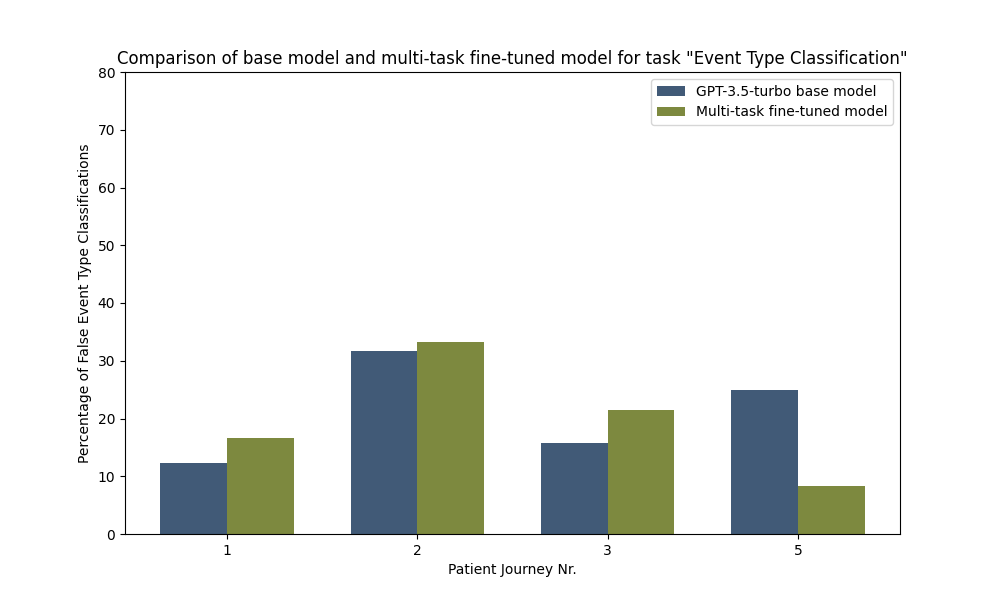
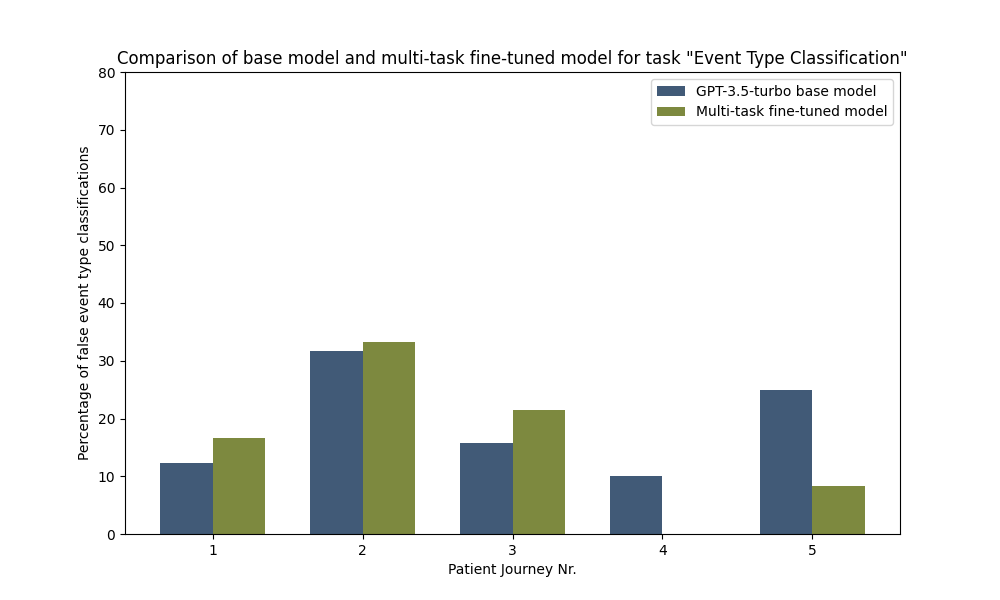
Updates from Overleaf

diff --git a/bachelor_thesis/chapters/preliminaries.tex b/bachelor_thesis/chapters/preliminaries.tex
@@ -3,15 +3,15 @@
 In this chapter, we introduce the terms and concepts used throughout the rest of the thesis. Where applicable, we use terms whose definitions are already established. At some points, we make minor adjustments to reduce complexity.\\\\ 
 The success of the approaches we present later in this thesis is evaluated by evaluating event logs. So this is the first term we introduce.
 \subsubsection*{Event Logs}\label{sec:event-log}
-As the name suggests, event logs are collections of recorded events and their defining data related to an observed process. They can be used as input for process mining and, therefore, must adhere to a particular structure. Usually, they are represented as tables, where each row represents one event, and each column contains the values of the events' attributes. The bare minimum for these attributes is \emph{case ID} and \emph{activity}. Each instance of the process from which the events originate is labelled with an ID, the case ID. All events related to the same case are referred to as a \emph{trace}. An event log can contain one or multiple traces. On top of the mandatory attributes, timestamps, activity categories, and more process-specific attributes can be recorded in an event log.~\cite{van_der_aalst_process_2016}\\\\
+As the name suggests, event logs are collections of recorded events and their defining data related to an observed process. They can be used as input for process mining and, therefore, must adhere to a particular structure. Usually, they are represented as tables, where each row represents one event, and each column contains the values of the events' attributes. The bare minimum for these attributes is \emph{case ID} and \emph{activity}. Each instance of the process from which the events originate is labelled with an ID, the case ID. All events related to the same case are referred to as a \emph{trace}.  An event log can contain one or multiple traces. Activity is a description of the event that occurred. On top of the mandatory attributes, timestamps, activity categories, and more process-specific attributes can be recorded in an event log.~\cite{van_der_aalst_process_2016}\\\\
 In the context of this thesis, we consider events to be atomic, thus making the distinction between events and activities superfluous. Both terms can be used interchangeably. To clarify what an event is, we define the term as follows.
 
 \subsubsection*{Event}\label{sec:event}
-An event consists of a case ID, an activity label, a start timestamp, and optionally other attributes such as the location where the event occurred.~\cite{van_der_aalst_process_2016} The activity label is a short description of the activity that took place. In the context of this thesis, it is not bound to a list of predefined terms or phrases. This means multiple activity labels can be syntactically different but semantically identical. An event is uniquely identifiable by the combination of its attributes. If the activity label of two events is semantically very similar while also sharing the same start timestamp and event type, these two events are indeed the same event.\\\\
+An event consists of a case ID, an activity label, and optionally other attributes such as a start timestamp an end timestamp the location where the event occurred.~\cite{van_der_aalst_process_2016} The activity label is a short description of the activity that took place. In the context of this thesis, it is not bound to a list of predefined terms or phrases. This means multiple activity labels can be syntactically different but semantically identical. An event is uniquely identifiable by the combination of its attributes. If the activity label of two events is semantically very similar while also sharing the same start timestamp, these two events are indeed the same event.\\\\
 The source we want to extract events from is Patient Journeys. Since this term has no widely accepted definition, we clarify below how we use it in this thesis.
 
 \subsubsection*{Patient Journeys}\label{sec:pj}
-Patient journeys are natural language texts without any defined format or structure. However, there are properties, that are typically found in Patient Journeys: They describe a person's course of disease from the patient's perspective, as the patient themself usually writes it. It is agreed that the interaction between the patient and the health services, together with the following activities and interventions, are the critical components of a Patient Journey~\cite{ferrara_engaging_2019, kuo_rosacea_2015}. Characteristically, they encompass events spanning beyond, e.g. a single hospital stay, offering a broader picture by compiling experiences from before the onset of the condition, during hospital visits, at home, during doctor's appointments, and so on. Often, these accounts are enriched with personal feelings, either explicitly stated or implicitly conveyed through the writing style. The lack of structure and guidelines on what content must be included comes with advantages and disadvantages. Unlike doctor letters or automatic reports from Health Information Systems, they are more likely to be honest and approachable representations of how a patient perceives the course of disease.
+Patient Journeys are natural language texts without any defined format or structure. However, there are properties, that are typically found in Patient Journeys: They describe a person's course of disease from the patient's perspective, as the patient themself usually writes it. It is agreed that the interaction between the patient and the health services, together with the following activities and interventions, are the critical components of a Patient Journey~\cite{ferrara_engaging_2019, kuo_rosacea_2015}. Characteristically, they encompass events spanning beyond, e.g. a single hospital stay, offering a broader picture by compiling experiences from before the onset of the condition, during hospital visits, at home, during doctor's appointments, and so on. Often, these accounts are enriched with personal feelings, either explicitly stated or implicitly conveyed through the writing style. The lack of structure and guidelines on what content must be included comes with advantages and disadvantages. Unlike doctor letters or automatic reports from Health Information Systems, they are more likely to be honest and approachable representations of how a patient perceives the course of disease.
 On the other hand, Patient Journeys can have spelling and grammar issues, be of any length, and use mostly non-scientific phrasing. This makes any two Patient Journeys difficult to compare. They are commonly found online, notably on social media platforms such as X, Facebook, and Reddit.\\\\
 The most essential tool in the extraction process we apply to create event logs from Patient Journeys is a GPT model. Therefore, we introduce the model we use in the following.
 
@@ -40,23 +40,19 @@ We use an open-source project as a foundation for our work. We use it as a refer
 
 \subsubsection*{TracEX}\label{sec:tracex}
 TracEX\footnote{https://github.com/FR-SON/TracEX} is an LLM-based data processing pipeline that aims to extract event logs from patient journeys. It takes a patient journey as an input and delivers an event log (in XES format) as an output. The extraction process involves many steps, some of which will be important later on. Hence, they are listed below:
-\paragraph{Preprocessing} Patient Journeys are often unstructured, making it hard to extract information from them. Events are not always described in chronological order, time-related information is often missing or relative to each other (e.g. \quotes{two weeks later}), and language is not standardized (use of synonyms, paraphrases or slang). Extracting data from this reliably is virtually impossible. This is why preprocessing is essential. The patient journey is moulded into a more structured format in order to streamline the following steps while still retaining the continuous text format. This process includes correcting spelling and grammar as well as identifying and transforming time-related phrases into a date format (e.g. YYYY-MM-DD). Additionally, case information like the author's age and the described condition are extracted.
+\paragraph{Preprocessing} Patient Journeys are often unstructured, making it hard to extract information from them. Events are not always described in chronological order, time-related information is often missing or relative to each other (e.g. \quotes{two weeks later}), and language is not standardized (use of synonyms, paraphrases or slang). Extracting data from this reliably is virtually impossible. This is why preprocessing is essential. The Patient Journey is moulded into a more structured format in order to streamline the following steps while still retaining the continuous text format. This process includes correcting spelling and grammar as well as identifying and transforming time-related phrases into a date format (e.g. YYYY-MM-DD). Additionally, case information like the author's age and the described condition are extracted.
+\paragraph{Labelling Activities} All relevant events are determined using the entire Patient Journey as context information and also considering the condition. They are then each summarized into six words at most. This implies that the exact phrasing of an activity label can vary each time the pipeline is executed. An example of a typical activity is \quotes{experiencing fever-like symptoms}.
 \paragraph{Extracting Event Types} Given an activity label, the category of that activity is determined from a predefined list. Possible event types are: Symptom Onset, Symptom Offset, Doctor Visit, Hospital Admission, Hospital Discharge, Treatment, Medication, Lifestyle Change and Feelings.
-\paragraph{Labelling Activities} Unlike event types, activity labels are not chosen from a predefined list of possible activities. All relevant events are determined using the entire patient journey as context information and also considering the condition. They are then each summarized into six words at most. This implies that the exact phrasing of an activity can vary each time the pipeline is executed. An example of a typical activity is \quotes{experiencing fever-like symptoms}.
-\paragraph{Extracting Timestamps} Given an activity, its start and end date are determined. It is extracted if possible and extrapolated if not. Furthermore, the duration of the activity is calculated from the two timestamps.\\\\
+\paragraph{Extracting Timestamps} Given an activity label, its start and end date are determined. It is extracted if possible and extrapolated if not. Furthermore, the duration of the activity is calculated from the two timestamps.\\\\
 To achieve the described outcome, a mix of deterministic scripts and requests to the OpenAI API are used. Among other techniques, prompt engineering is used to increase the quality of the extracted event logs.
 The Few-Shot prompting technique has proven to be especially suited for the described tasks. A request to the OpenAI API might contain a message list like this:
-\begin{lstlisting}[language=json, caption={Few-shot prompt to categorize activities into event types}, label={lst:few-shot}]
-{"messages":[
-	{"role": "system",  
-     "content": "You are an expert in text categorization and your job is to take a given activity label and to classify it into one of the following event types: 'Symptom Onset', 'Symptom Offset', 'Diagnosis', 'Doctor Visit', 'Treatment', 'Hospital Admission', 'Hospital Discharge', 'Medication', 'Lifestyle Change' and 'Feelings'. Please consider the capitalization.",  
-	},  
-    {"role": "user", "content": "visiting doctor's"},  
-    {"role": "assistant", "content": "Doctor Visit"},  
-    {"role": "user", "content": "tested positive for Covid19"},
-    {"role": "assistant", "content": "Diagnosis"},  
-    {"role": "user", "content": activity_label}  
-]}
+\begin{lstlisting}[language=prompt, caption={Few-shot prompt to categorize activities into event types}, label={lst:few-shot}]
+system: You are an expert in text categorization and your job is to take a given activity label and to classify it into one of the following event types: Symptom Onset, Symptom Offset, Diagnosis, Doctor Visit, Treatment, Hospital Admission, Hospital Discharge, Medication, Lifestyle Change and Feelings. Please consider the capitalization.  
+user: visiting doctor's 
+assistant: Doctor Visit  
+user: tested positive for Covid19
+assistant: Diagnosis
+user: activity_label  
 \end{lstlisting}
 A prompt containing the task for the model and a list of examples to specify the models' behaviour is given, along with the activity label to be classified.
-Please note that TracEX is an open-source tool. It may still be in development, and functionality might be altered, removed or added in the future. The development status this thesis builds upon can be checked 
+Please note that TracEX is an open-source tool. It may still be in development, and functionality might be altered, removed or added in the future. The development status this thesis builds upon can be checked \href{https://github.com/FR-SON/TracEX}{here}.

diff --git a/bachelor_thesis/chapters/evaluation.tex b/bachelor_thesis/chapters/evaluation.tex
@@ -18,7 +18,7 @@ We use a set of event types, so each pair is mutually exclusive. This means that
 The value we use from this metric is the percentage of \verb|True| and \verb|False| values respectively. This way, the number of errors is relative to the number of activities in each patient journey.\\
 Possible event types are: Symptom Onset, Symptom Offset, Doctor Visit, Hospital Admission, Hospital Discharge, Treatment, Medication, Lifestyle Change and Feelings.
 
-\subsubsection{Timestamp Extraction Metrics}\label{sec:time_metrics}
+\subsubsection{Timestamp Extraction Metric}\label{sec:time_metrics}
 Similar to the event type metric, a timestamp can be either extracted correctly or incorrectly, resulting in \verb|True| or \verb|False| when evaluated. In order to adhere to the commonly used standard in event logs, which is also required to produce valid XES files, the timestamps are in the format \verb|YYYY-MM-DD|. In many cases, including the sample patient journeys we use in the evaluation, patient journeys do not contain time information this precise. Most of the time, specifications are relative and vague. For this evaluation, we define a timestamp to be extracted correctly if the date is plausible in the context of the Patient Journey. For an activity described to have happened on \quotes{some day in April…}, any timestamp between 01.~April and 30.~April would be correct. This is unless other time-related information further specifies the timeframe in which an activity must have happened. Let $A_1$ be an activity that happens before activity $A_2$ and $t_2=$ \verb|2024-04-15q| be the timestamp for $A_2$. If $A_1$ is specified as \quotes{some day in April…}, only timestamps between 01.~April and 14.~April would be correct. The same goes for \quotes{as the weeks progressed}, \quotes{later that year} and similar phrases. As long as an extracted timestamp is correct relative to all other information given in the patient journey and is as precise as the text provides, it is deemed correct.\\
 Start and end timestamps can be correct or incorrect, independent of each other. The value we use from this metric is the percentage of \verb|True| and \verb|False| values respectively. This way, the number of errors is relative to the number of activities in each patient journey.
 
@@ -49,8 +49,9 @@ We will first showcase the multi-task fine-tuned model and, secondly, the single
 We will present the results for every task performed by the model in the following order: First, we showcase the performance in labelling activities, followed by classifying event types of activities, and lastly, extracting timestamps for activities.
 
 \paragraph{Activity Labelling} The plots in \autoref{fig:eval_activities_rad} show comparisons of the base model and multi-task fine-tuned model in all three metrics for each Patient Journey individually. The axes each display the error rate in the extraction results the models achieved. A smaller amplitude is desirable.\\
-\begin{figure}
+\begin{figure}[h]
   \centering
+  \captionsetup{belowskip=0pt,aboveskip=0pt}
   \subfigure[Patient Journey Nr. 1]{\includegraphics[width=0.3\textwidth]{bachelor_thesis/images/activites_pj1.png}}
   \subfigure[Patient Journey Nr. 2]{\includegraphics[width=0.3\textwidth]{bachelor_thesis/images/activites_pj2.png}}
   \subfigure[Patient Journey Nr. 3]{\includegraphics[width=0.3\textwidth]{bachelor_thesis/images/activites_pj3.png}}
@@ -66,16 +67,18 @@ We will present the results for every task performed by the model in the followi
     \item The multi-task fine-tuned model overall outperforms the base model, though not consistently
 \end{enumerate}
 
-\begin{figure}
+\begin{figure}[h]
     \centering
+    \captionsetup{belowskip=0pt,aboveskip=0pt}
     \includegraphics[width=\textwidth]{bachelor_thesis/images/activities_all.png}
     \caption{Bar Plot comparing the extraction results of GPT-3.5 Turbo and the Multi-Task Fine-Tuned model across all Patient Journeys~\aref{apx:pjs} for the task \quotes{Activity Labelling}} 
     \label{fig:eval_activities_bar}
 \end{figure}
 
 \paragraph{Event Type Classification} \autoref{fig:eval_event_types} shows the performance of both models across all patient journeys in a bar plot. Each bar represents the percentage of incorrectly classified event types. GPT-3.5 performs better on nearly every Patient Journey. This can have various reasons, like an under-representation of certain event types in the training data. We discuss the matter in \autoref{sec:discussion}. The gap between the two models is relatively small, to a point where it can be almost considered negligible. Fine-tuning the model did not increase the quality of the extraction results in this task. However, they are almost as good as the base models while not receiving examples in few-shot prompts with every request to the API. 
-\begin{figure}
+\begin{figure}[h]
     \centering
+    \captionsetup{belowskip=0pt,aboveskip=0pt}
     \includegraphics[width=\textwidth]{bachelor_thesis/images/event_types_all.png}
     \caption{Bar Plot comparing the extraction results of GPT-3.5 Turbo and the Multi-Task Fine-Tuned model across all Patient Journeys~\aref{apx:pjs} for the task \quotes{Event Type Classification}}
     \label{fig:eval_event_types}
@@ -88,9 +91,10 @@ The final task we trained the multi-task fine-tuned model for is extracting time
     \item The multi-task fine-tuned model achieved a better quality in almost every scenario. Especially the simpler Patient Journeys 2 and 4 were processed noticeably better.
 \end{enumerate}
 Even the fine-tuned model struggles with less well-structured description of time specifications and events with strong temporal relations. Nevertheless, fine-tuning increases the quality of number of correctly extracted timestamps.
-\begin{figure}
+\begin{figure}[h]
     \centering
-    \includegraphics[width=\textwidth]{bachelor_thesis/images/timestamp_all.png}
+    \captionsetup{belowskip=0pt,aboveskip=0pt}
+    \includegraphics[width=\textwidth]{bachelor_thesis/images/timestamp_all_sorted.png}
     \caption{Bar Plot comparing the extraction results of GPT-3.5 Turbo and the Multi-Task Fine-Tuned model across all Patient Journeys~\aref{apx:pjs} for the task \quotes{Timestamp Extraction}}
     \label{fig:eval_time}
 \end{figure}
@@ -98,8 +102,9 @@ Even the fine-tuned model struggles with less well-structured description of tim
 
 \subsubsection{Single-Task Fine-Tuned Model}\label{sec:eval_single}
 The plots in \autoref{fig:eval_activities_single_rad} show comparisons of the base model and single-task fine-tuned model in all three metrics for each Patient Journey individually. The axes each display the error rate in the extraction results the models achieved. A smaller amplitude is desirable.\\
-\begin{figure}
+\begin{figure}[h]
   \centering
+  \captionsetup{belowskip=0pt,aboveskip=0pt}
   \subfigure[Patient Journey Nr. 1]{\includegraphics[width=0.3\textwidth]{bachelor_thesis/images/activites_pj1-single.png}}
   \subfigure[Patient Journey Nr. 2]{\includegraphics[width=0.3\textwidth]{bachelor_thesis/images/activites_pj2-single.png}}
   \subfigure[Patient Journey Nr. 3]{\includegraphics[width=0.3\textwidth]{bachelor_thesis/images/activites_pj3-single.png}}
@@ -110,8 +115,9 @@ The plots in \autoref{fig:eval_activities_single_rad} show comparisons of the ba
 \end{figure}
 \autoref{fig:eval_activities_all_bar} illustrates the performance of both models across all patient journeys in a bar plot. Each bar represents the error rate in one of the metrics, and the bars of the same metric for each Patient Journey of base- and fine-tuned model overlap. A smaller amplitude is desirable. \\
 The fine-tuned model consistently scores better in the \emph{missing activity} metric but only occasionally outperforms the base model in any other metric. 
-\begin{figure}
+\begin{figure}[h]
     \centering
+    \captionsetup{belowskip=0pt,aboveskip=0pt}
     \includegraphics[width=\textwidth]{bachelor_thesis/images/activites_all-single.png}
     \caption{Bar Plot comparing the extraction results of GPT-3.5 Turbo and the Single-Task Fine-Tuned model across all Patient Journeys~\aref{apx:pjs} for the task \quotes{Activity Labelling}} 
     \label{fig:eval_activities_all_bar}
@@ -120,8 +126,9 @@ The fine-tuned model consistently scores better in the \emph{missing activity} m
 \subsubsection{Comparison of Fine-Tuned Models}
 Lastly, we compare the results of the two fine-tuned models in their mutual task \quotes{Activity Labelling}. \autoref{fig:eval_activities_all_comparison_bar} shows that the multi-task fine-tuned model performs better in 8 out of 15 measurements, and the single-task fine-tuned model performs better in the other 7 measurements. All models performed notably well on Patient Journey 3 and 4, indicating these are the easiest for an LLM to extract information from. The single-task fine-tuned model got the best scores for both of them. This indicates that the specialisation on one task increases the performance under easier conditions while not increasing the performance under more complex conditions. We further discuss this in~\autoref{sec:discussion}.
 
-\begin{figure}
+\begin{figure}[h]
     \centering
+    \captionsetup{belowskip=0pt,aboveskip=0pt}
     \includegraphics[width=\textwidth]{bachelor_thesis/images/activites_all-single_vs_multi.png}
     \caption{Bar Plot comparing the extraction results of multi-task and single-task fine-tuned model across all Patient Journeys~\aref{apx:pjs} for the task \quotes{Activity Labelling}} 
     \label{fig:eval_activities_all_comparison_bar}

diff --git a/bachelor_thesis/chapters/related_work.tex b/bachelor_thesis/chapters/related_work.tex
@@ -1,12 +1,12 @@
 \section{Related Work}
-\label{related_work}
+\label{sec:related_work}
 Using Large Language Models (LLMs) to extract event logs from natural language text (NLT) combines the complexity of several research disciplines: Natural Language Processing (NLP), Information Extraction (IE), Prompt Engineering, Modelling (wherein the configuration of event logs is a design decision), Software Engineering and LLM-training.\\
-In this bachelor thesis, we focus explicitly on fine-tuning and the specific application of all these disciplines to extracting event logs from patient journeys. This use case has been relatively under-researched and is currently not documented.\\\\
+In this bachelor thesis, we focus explicitly on fine-tuning and the specific application of all these disciplines to extracting event logs from Patient Journeys. This use case has been relatively under-researched and is currently not documented.\\\\
 In essence, extracting event logs from patient journeys is an Information Extraction (IE) task. IE tasks aim at extracting information from unstructured plain text. Han et al.~\cite{han_is_2023} conducted extensive research on how well ChatGPT performs in IE tasks. The outcome revealed that, even with the usage of all common prompt engineering approaches (e.g. Few, Shot, Chain of Thought), ChatGPT lags considerably behind State-of-the-Art methods. Outcomes are even worse – up to 48\% – when irrelevant information for the task is included in the context.\\
-Bahak et al.~\cite{bahak_evaluating_2023} also emphasized that ChatGPT 3.5 turbo often hallucinates by giving context-related responses to questions, even though the given context does not contain an answer. This problem is also encountered when extracting from Patient Journeys due to often missing information, particularly time specifics. Hence, this study investigates whether fine-tuning can mitigate the problem.\\\\
+Bahak et al.~\cite{bahak_evaluating_2023} also emphasized that GPT-3.5 Turbo often hallucinates by giving context-related responses to questions, even though the given context does not contain an answer. This problem is also encountered when extracting from Patient Journeys due to often missing information, particularly time specifications. Hence, this study investigates whether fine-tuning can mitigate the problem.\\\\
 Ovadia et al.~\cite{ovadia_fine-tuning_2024} explored various fine-tuning strategies (mainly unsupervised fine-tuning (USFT) and retrieval-augmented generation (RAG)) aiming to improve the processing of knowledge-based tasks. They discovered that knowledge-based tasks could be significantly improved using fine-tuned models, but RAG is more suitable for knowledge injection than USFT. Contrarily, our approach aims to enhance the model's output not by adding more knowledge but by helping the model better understand the complex task at hand. Therefore, our pursuit requires different demands on fine-tuning strategies.\\\\
 \newpage
-Latif et al.~\cite{latif_fine-tuning_2024} explored fine-tuned ChatGPT's potential in automated scoring of students' written work. They employed a large, diverse dataset to train their model. The result showed that the outcomes were not only better than those of the base model ChatGPT but also surpassed the performance of the then-best publicly available model, BERT. The tasks to be corrected were single and multi-label tasks, so primarily multiple-choice questions. This bachelor thesis also deals with tasks without predefined answer options. These tasks are even harder for the model to complete correctly and also require a different evaluation approach.\\\\
-In other research areas such as Caption Rewrites, News~\cite{gladkoff_predictive_2023} Recommendations~\cite{li_exploring_2023}, or Machine Translation Evaluation~\cite{wang_mitigating_2023}, researches confirmed that the application of fine-tuned models led to improved results.\\\\
+Latif et al.~\cite{latif_fine-tuning_2024} explored fine-tuned ChatGPT's potential in automated scoring of students' written work. They employed a large, diverse dataset to train their model. The result showed that the outcomes were not only better than those of the base model ChatGPT but also surpassed the performance of the then-best publicly available model, BERT. The tasks to be corrected were single and multi-label tasks, so primarily multiple-choice questions. This bachelor thesis partly deals with tasks without predefined answer options. These tasks are even harder for the model to complete correctly and also require a different evaluation approach.\\\\
+In other research areas such as Caption Rewrites, News~\cite{gladkoff_predictive_2023} Recommendations~\cite{li_exploring_2023}, or Machine Translation Evaluation~\cite{wang_mitigating_2023}, research confirmed that the application of fine-tuned models led to improved results.\\\\
 A common thread in these studies is the utilization of large, well-established datasets. Extracting event logs from NLT, or Patient Journeys specifically, is still a niche sector in which such datasets do not exist. Hence, the compilation of these datasets, a crucial part of this Bachelor's Thesis, is conducted with utmost care and thoroughness to ensure the reliability of our findings.\\\\
-In short, the ChatGPT 3.5 turbo base model is not very adept at performing IE tasks and suffers greatly from too large contexts. Depending on the goal, different fine-tuning strategies might be better suited to customize an LLM in the desired way. The increased performance of fine-tuned pre-trained transformer models in various fields of study is promising. However, the fact remains that extracting event logs from NLT involves problems that were not tackled before. The ambition of this bachelor thesis is to extend the aforementioned findings and determine if fine-tuning can resolve IE-task problems by applying training strategies. The objective of extracting high-quality event logs from patient journeys is used as an example throughout this thesis, as it is the focus of the underlying tool, TracEX.
+In short, the GPT-3.5 Turbo base model is not very adept at performing IE tasks and suffers greatly from too large contexts. Depending on the goal, different fine-tuning strategies might be better suited to customize an LLM in the desired way. The increased performance of fine-tuned pre-trained transformer models in various fields of study is promising. However, the fact remains that extracting event logs from NLT involves problems that were not tackled before. The ambition of this bachelor thesis is to extend the aforementioned findings and determine if fine-tuning can resolve IE-task problems by applying training strategies. The objective of extracting high-quality event logs from Patient Journeys is used as an example throughout this thesis, as it is the focus of the underlying tool, TracEX.

diff --git a/bachelor_thesis/chapters/introduction_v2.tex b/bachelor_thesis/chapters/introduction_v2.tex
@@ -1,0 +1,21 @@
+\section{Introduction}\label{sec:intro}
+Over recent years, Process Mining has proven to be a powerful tool for detecting, analysing, and optimising (business) processes~\cite{weske_business_2012}. Its operation is fundamentally reliant on event logs, which traditionally are generated automatically within Information Systems.\\
+However, with the rise of large language models (LLMs), interest in processing unstructured data has increased considerably. It would open up entirely new possibilities if we could analyse not only structured data from companies and healthcare systems, for example, but also non-standard reports from arbitrary individuals. These could range from analysing conversations from social media platforms such as Reddit or Facebook to specifically requested reports that do not adhere to a strict format, making them easier for people to produce.\\
+Consequently, there is a crucial need to convert unstructured data into event logs, which is necessary to apply process mining.
+\\
+For example, the LLM-based project TracEX~\footnote{https://github.com/bptlab/TracEX} aims to extract event logs from patient-written descriptions of disease courses in order to provide researchers with valuable process information. It plays an essential role in this thesis, as we intend to improve it by providing fine-tuned models.\\
+There are significant challenges in sourcing and preparing data for Process Mining, even when using traditional data sources~\cite{van_der_aalst_process_2016}. From a practical standpoint, data quality is paramount for successful Process Mining. Any missing or untrustworthy event data severely undermines the value of the results obtained. 
+\begin{quote}
+    \quotes{From a practical point of view data quality is of the utmost importance for the success of process mining. If event data is missing or cannot be trusted, then the results of process mining are less valuable.}~\cite{van_der_aalst_process_2016}    
+\end{quote}
+These problems persist when using unstructured text as a data source. Furthermore, the data has to be structured, complicating matters even more. Non-standardised, manually added data,  written by laypeople without any claim for completeness or readability, are even more prone to the issues faced with traditional data sources.\\
+In the past, attempts have been made to process this type of data, including in the realm of process modelling~\cite{friedrich_process_2011}. Aside from human manual extraction,  deterministic Natural Language Processing (NLP) approaches have been used. Unfortunately, these attempts quickly met limitations, particularly in deriving temporal relationships between events.\\
+Recently, there has been an explosive rise in the field of Generative AI and LLMs in general. Transformer models from OpenAI, for instance, have proven to be powerful tools in various applications due to their ability to comprehend human language and respond in kind. This fact suggests that these models can also process textual disease course descriptions, for example, and be utilized to extract event logs from them.\\
+However, the use of LLMs introduces additional challenges. They are non-deterministic, meaning the same input can yield different outputs. Furthermore, their operation mechanisms are not transparent and, therefore, not entirely understood. Making them carry out tasks exactly as desired requires significant trial and error. For event logs, the quality and formatting of the collected data are vital. The data must not only be extracted accurately and completely but also cast into the appropriate format (such as XES).
+These and many other hurdles pose substantial difficulties in event log extraction~\cite{munoz-gama_process_2022}. Established Transformer models, such as those from OpenAI, struggle to overcome these issues. Therefore, research has been conducted to explore ways to fine-tune these general-purpose models for specific tasks or topics. This work investigates the extent to which fine-tuning could solve these problems and create high-quality event logs. As stated by~\cite{latif_fine-tuning_2024}, 
+\begin{quote}
+\quotes{Fine-tuned GPT models are more suited to tasks like text completion, response evaluation, or open-ended queries because of their autoregressive nature, which excels in sequence formation.} 
+\end{quote}
+
+This thesis is structured as follows:\\
+\hyperref[sec:back]{Section~\ref*{sec:back}} introduces the preliminaries followed by \autoref{sec:related_work}, situating this thesis among other studies. \hyperref[sec:fine]{Section~\ref*{sec:fine}} explores different approaches to fine-tuning and describes the compilation of training data. In \autoref{sec:eval}, we evaluate the performance of the trained models after introducing the required metrics. The thesis concludes with \autoref{sec:conclusion}, summarising findings, discussing the limitations and providing an outlook for future work.

diff --git a/bachelor_thesis/chapters/introduction.tex b/bachelor_thesis/chapters/introduction.tex
@@ -1,7 +1,8 @@
 \section{Introduction}\label{sec:intro}
 Over recent years, Process Mining has proven to be a powerful tool for detecting, analysing, and optimising (business) processes~\cite{weske_business_2012}. Its operation is fundamentally reliant on event logs, which traditionally are generated automatically within Information Systems.\\
 However, with the rise of large language models (LLMs), interest in processing unstructured data has increased considerably. It would open up entirely new possibilities if we could analyse not only structured data from companies and healthcare systems, for example, but also non-standard reports from arbitrary individuals. These could range from analysing conversations from social media platforms such as Reddit or Facebook to specifically requested reports that do not adhere to a strict format, making them easier for people to produce.\\
-Consequently, there is a crucial need to convert unstructured data into event logs, which is necessary to apply process mining. For instance, mamahealth is working on a project that utilises natural language testimonials from individuals with chronic illnesses. The project views these accounts from a process perspective, aiming to generate potentially life-altering insights.\\
+Consequently, there is a crucial need to convert unstructured data into event logs, which is necessary to apply process mining.
+For instance, mamahealth is working on a project that utilises natural language testimonials from individuals with chronic illnesses. The project views these accounts from a process perspective, aiming to generate potentially life-altering insights.\\
 The project TracEX, developed in collaboration with mamahealth, plays an essential role in this research and will be further introduced in the following chapters. It provides an extraction framework that this thesis aims to improve by providing fine-tuned models. There are significant challenges in sourcing and preparing data for Process Mining, even when using traditional data sources~\cite{van_der_aalst_process_2016}. From a practical standpoint, data quality is paramount for successful Process Mining. Any missing or untrustworthy event data severely undermines the value of the results obtained. 
 \begin{quote}
     \quotes{From a practical point of view data quality is of the utmost importance for the success of process mining. If event data is missing or cannot be trusted, then the results of process mining are less valuable.}~\cite{van_der_aalst_process_2016}    

diff --git a/bachelor_thesis/chapters/conclusion.tex b/bachelor_thesis/chapters/conclusion.tex
@@ -17,6 +17,6 @@ Developing and applying even more distinguished metrics could further improve th
 Furthermore, as publicly accessible models continue to evolve — exemplified by the recent release of GPT-4o — the scope of possibilities extends correspondingly. By 2026, innovations that are presently inconceivable are likely to become achievable. Therefore, future research should build on the more powerful LLMs we will surely see in the upcoming years.
 
 \subsection{Summary}\label{sec:summary}
-Fine-tuning is an active research topic in the pursuit of increasing the performance of LLMs also in information extraction tasks. Extracting information to create Event Logs poses some additional challenges, and Patient Journeys have proven to be inconsistent information sources.\\
+Fine-tuning is an active research topic in the pursuit of increasing the performance of LLMs also in information extraction tasks. Extracting information from natural language text to create event logs poses some additional challenges, and Patient Journeys have proven to be inconsistent information sources.\\
 We showed, that applying fine-tuning strategies to publicly available and affordable models can increase the quality of the extracted results, even with small amounts of training data. Especially noteworthy is the improvement in correctly determining and summarizing all relevant events in a specified context. We demonstrated that with Patient Journeys which describe Covid-19 courses of disease.\\
 In combination with the successes in two of the other three evaluated tasks (extracting start and end timestamps), that both pose individual challenges, we conclude that fine-tuning, and SFT in particular, is indeed a valuable approach for improving the extraction of event logs from Patient Journeys.

diff --git a/bachelor_thesis/Bachelorarbeit.tex b/bachelor_thesis/Bachelorarbeit.tex
@@ -56,6 +56,9 @@
     breaklines=true,
     frame=single,
     backgroundcolor=\color{background},
+    rulecolor=\color{darkgray},
+    frame=single,
+    frameround=tttt,
     morekeywords={role,content},
     keywordstyle=\color{json-key},
     literate=
@@ -66,6 +69,23 @@
       {\}}{{{\color{delim}{\}}}}}{1}
       {[}{{{\color{delim}{[}}}}{1}
       {]}{{{\color{delim}{]}}}}{1},
+}
+\lstdefinelanguage{prompt}{
+    breaklines=true,
+    postbreak=\mbox{\textcolor{json-key}{$\hookrightarrow$}\space},
+    xleftmargin=2em,
+    xrightmargin=1em,
+    framexleftmargin=1em,
+    basicstyle=\small\ttfamily,
+    showstringspaces=false,
+    breaklines=true,
+    frame=single,
+    backgroundcolor=\color{background},
+    rulecolor=\color{darkgray},
+    frame=single,
+    frameround=tttt,
+    morekeywords={system, user, assistant},
+    keywordstyle=\color{json-key},
 }
 
 % stretch text vertically by factor (zeilenabstand)
@@ -101,10 +121,10 @@
 \renewcommand{\descriptionlabel}[1]{
 \normalfont\bfseries #1:}
 
-\def\sectionautorefname{Kapitel}
-\def\subsectionautorefname{Abschnitt}
-\def\subsubsectionautorefname{Abschnitt}
-\def\figureautorefname{Abbildung}
+% \def\sectionautorefname{Chapter}
+% \def\subsectionautorefname{Abschnitt}
+% \def\subsubsectionautorefname{Abschnitt}
+% \def\figureautorefname{Abbildung}
 \def\lstlistingautorefname{Listing}
 
 
@@ -135,7 +155,7 @@
 	% include your chapters
 	\pagenumbering{arabic} 
 
-	\include{bachelor_thesis/chapters/introduction}
+	\include{bachelor_thesis/chapters/introduction_v2}
     \include{bachelor_thesis/chapters/preliminaries}
 	\include{bachelor_thesis/chapters/related_work}
     \include{bachelor_thesis/chapters/fine-tuning}

diff --git a/bachelor_thesis/chapters/fine-tuning.tex b/bachelor_thesis/chapters/fine-tuning.tex
@@ -1,4 +1,4 @@
-\section{Fine-Tuning Strategies}\label{sec:fine}
+\section{Fine-Tuning Strategies for Event Log Extraction}\label{sec:fine}
 In the following chapters, we will present an approach to fine-tuning GPT-3.5 Turbo, which is specialized for extracting event logs from Patient Journeys. We will use four of the steps used in TracEX to demonstrate: Extracting activity labels, classifying event types, extracting start timestamps and extracting end timestamps. Part of that approach is preparing the datasets for training and validating the model. This is mainly because the desired application is a niche subject, resulting in a lack of large, established datasets. Curating and assembling the training data is a time-consuming yet crucial task in fine-tuning an LLM.\\\\
 Since we use GPT-3.5 Turbo and the corresponding tools from OpenAI, the set of applicable fine-tuning strategies is limited. As mentioned in \ref{sec:fine-tuning-def}, there are fundamentally three potentially interesting strategies: Supervised fine-tuning (SFT), unsupervised fine-tuning and reinforcement learning. The fine-tuning framework OpenAI provides is focused on SFT, so we also focus on that. Fittingly, SFT is said to be suited for improving a model's understanding of complex tasks and increasing the reliability of correctly formatted responses, which is the purpose we use fine-tuning for.\\
 Another dimension in which one can differentiate fine-tuning strategies is the number of tasks a model is fine-tuned for.\\
